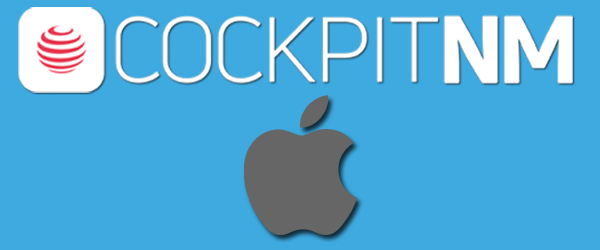
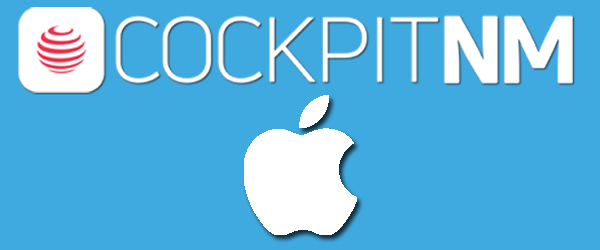
alterando imagem ios e ajustando texto

Changed region(s): [[0.39, 0.364, 0.6, 0.952]]

diff --git a/resources/views/home.blade.php b/resources/views/home.blade.php
@@ -37,7 +37,8 @@
     </style>
  <body>
     <div id="content">
-        <p>Bem Vindo! O Cockpit Novo Mundo é um aplicativo criado para acompanhamento de vendas, metas e resultados gerencias.</p>
+        <p>Bem Vindo família Novo Mundo! O Cockpit Novo Mundo é um aplicativo criado para acompanhamento gerenciais de seus indicadores.</p>
+        <p>Para entrar no aplicativo, você deve inserir seu <b>RE</b> e <b>Senha</b> (a mesma do Vtrine).</p>
         <p>O Cockpit Novo Mundo, está disponível nas plataformas Android e iOS.</p>
         <p>Abaixo, você pode clicar na sua plataforma desejada para obter o aplicativo.</p>
 
